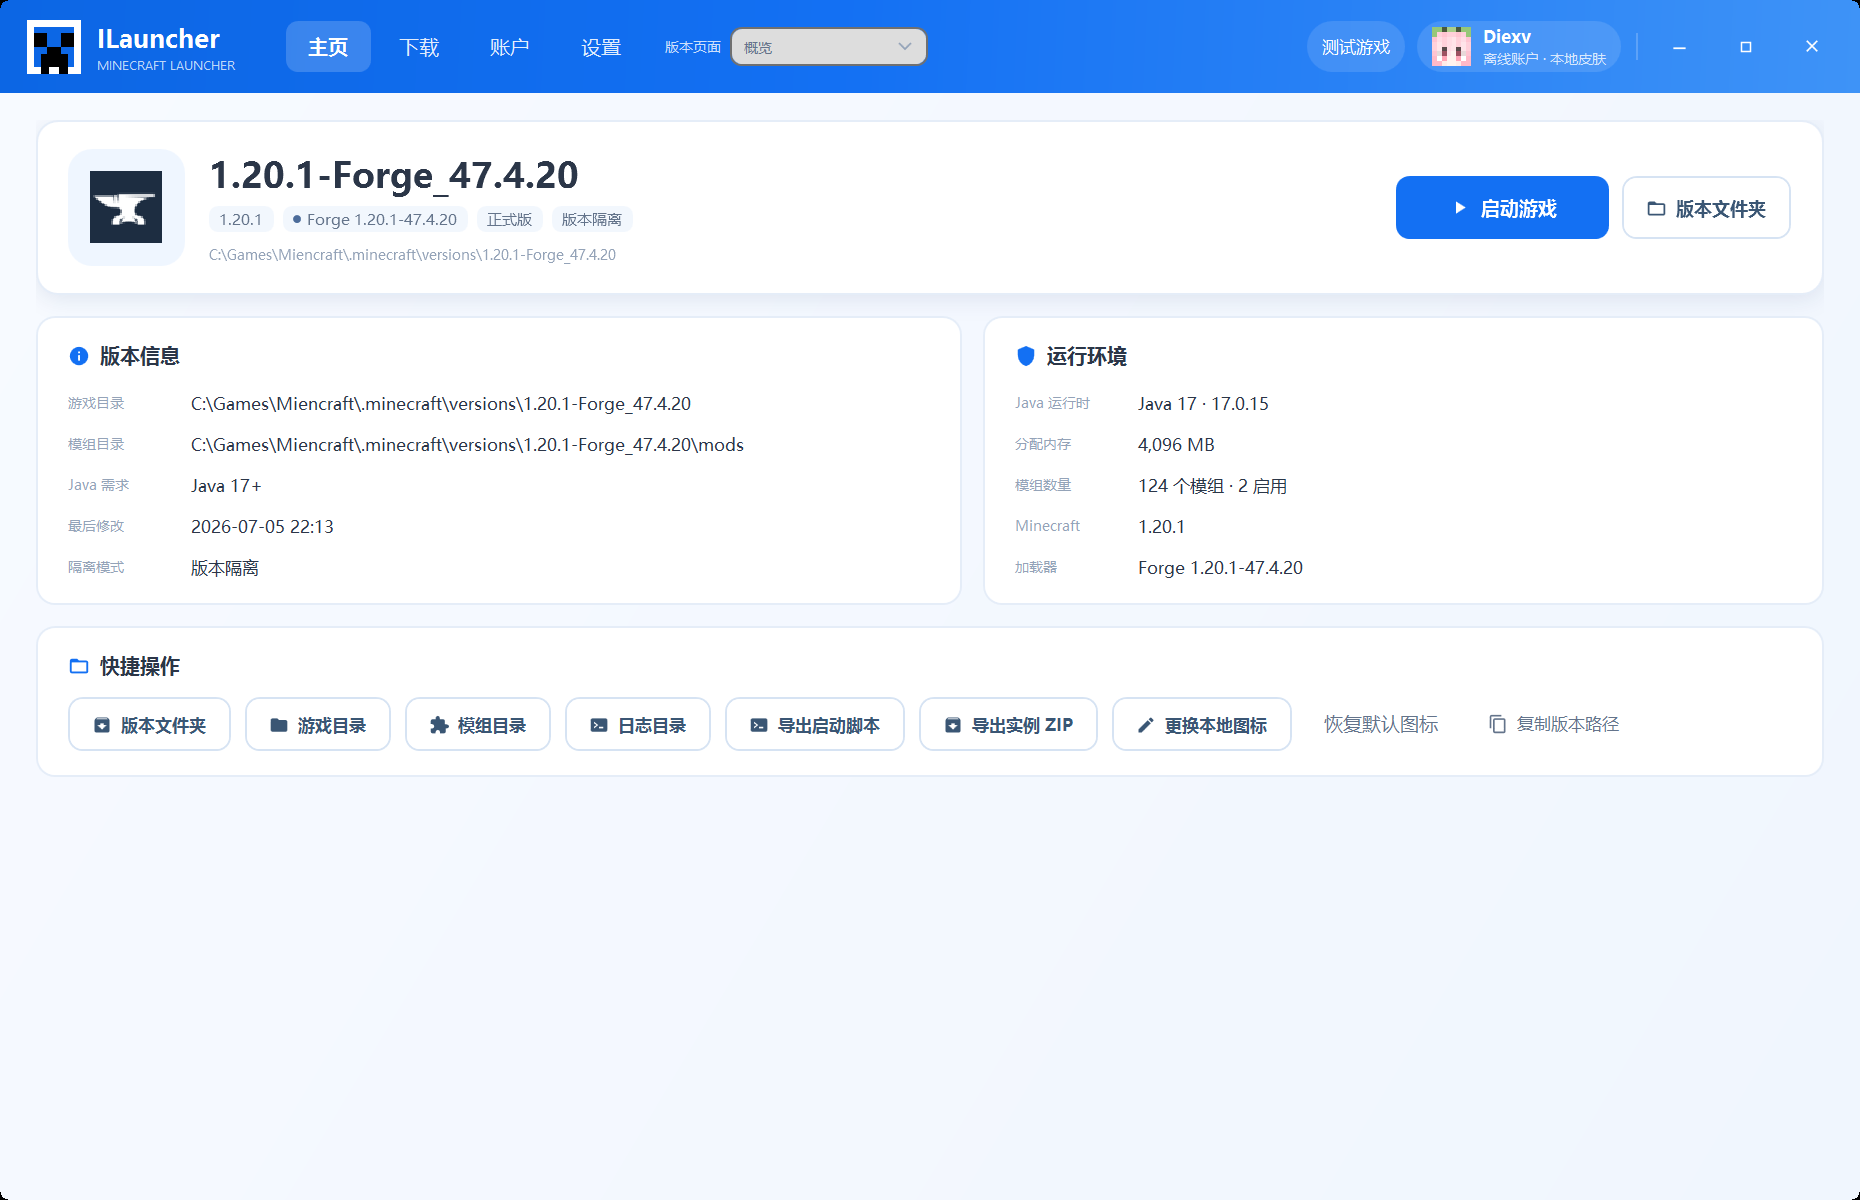
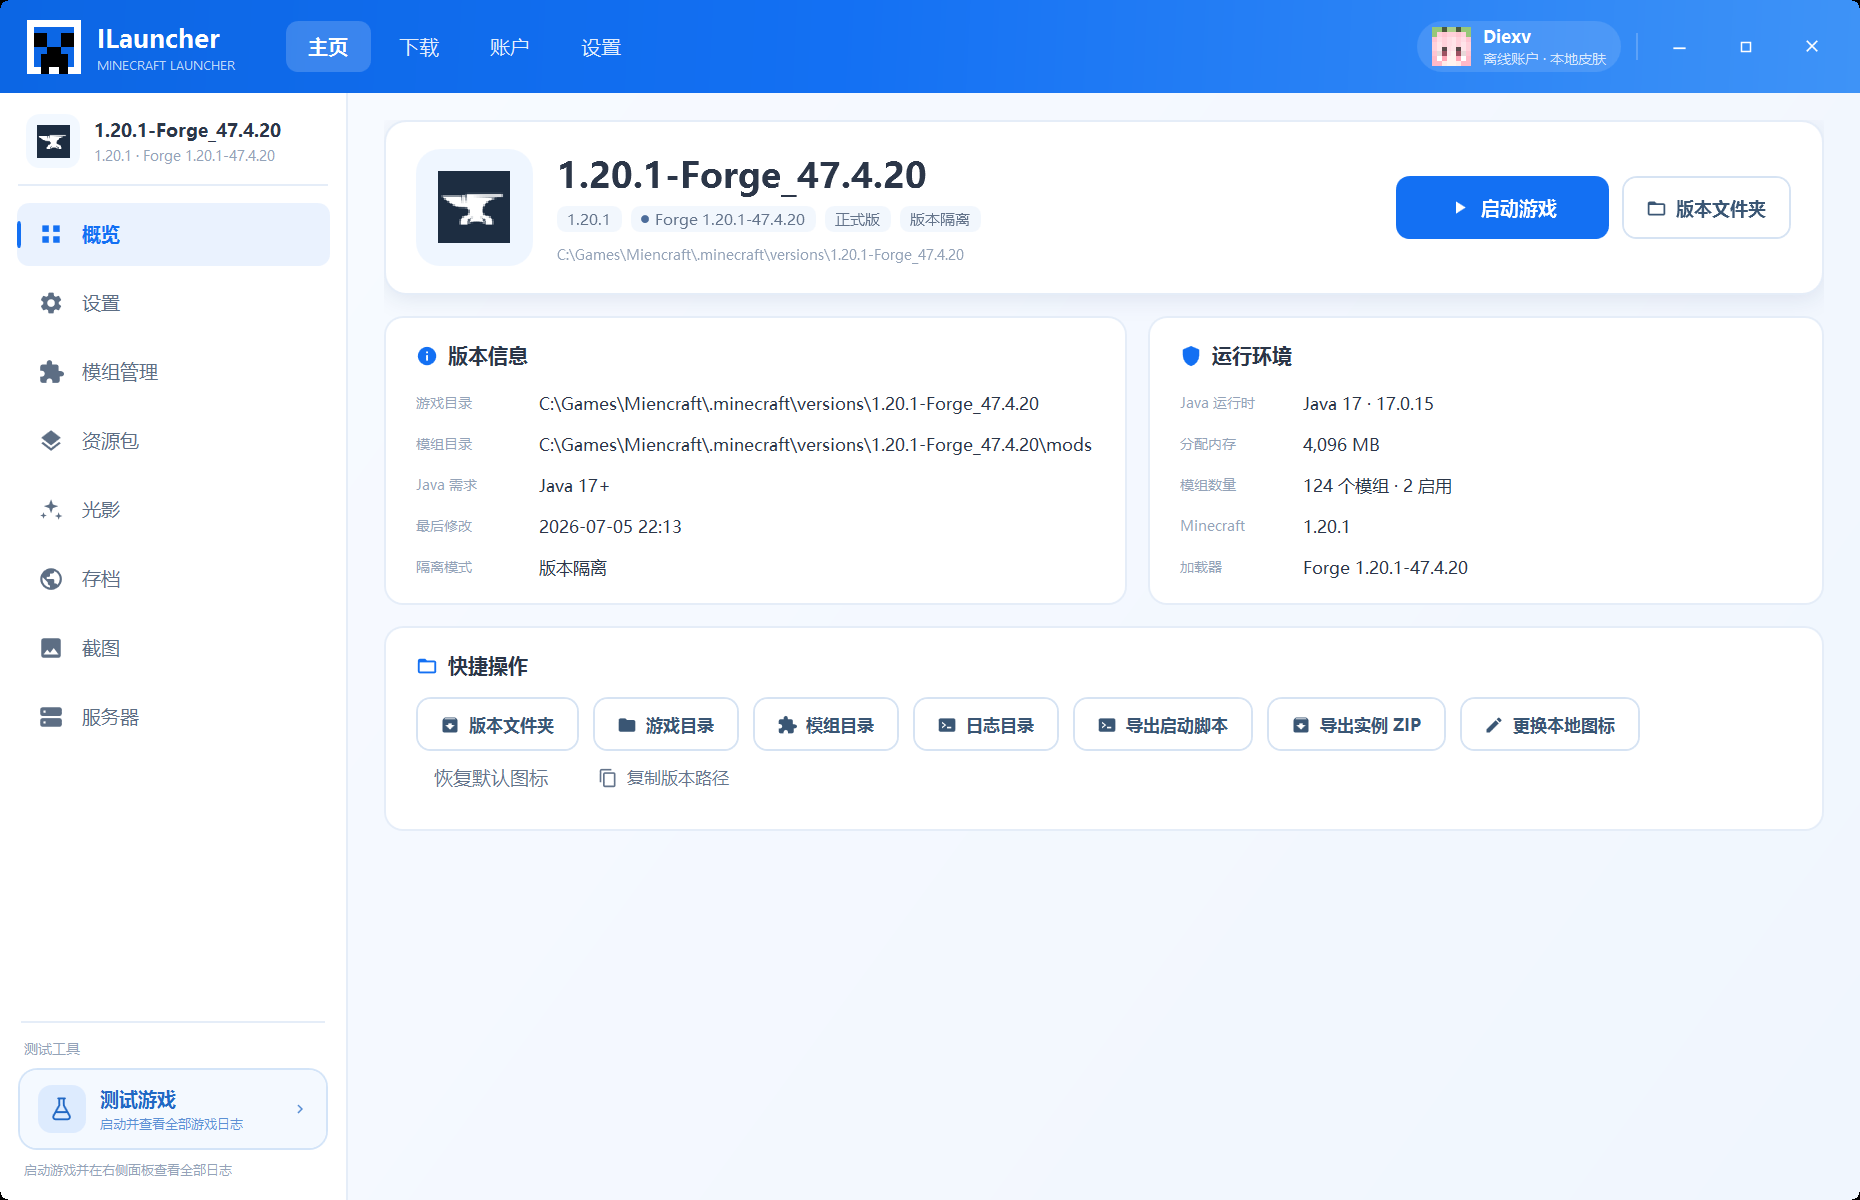
Restore version sidebar and test game button layout

diff --git a/src/ILauncher/Views/InstanceView.xaml b/src/ILauncher/Views/InstanceView.xaml
@@ -1,14 +1,138 @@
 <UserControl x:Class="ILauncher.Views.InstanceView"
              xmlns="http://schemas.microsoft.com/winfx/2006/xaml/presentation"
-             xmlns:x="http://schemas.microsoft.com/winfx/2006/xaml">
+             xmlns:x="http://schemas.microsoft.com/winfx/2006/xaml"
+             xmlns:controls="clr-namespace:ILauncher.Controls">
 
-    <Border>
-        <Border.Background>
-            <LinearGradientBrush StartPoint="0,0" EndPoint="1,1">
-                <GradientStop Color="#FFF7FAFF" Offset="0" />
-                <GradientStop Color="#FFF0F6FE" Offset="1" />
-            </LinearGradientBrush>
-        </Border.Background>
-        <ContentControl Content="{Binding CurrentModule}" />
-    </Border>
+    <UserControl.Resources>
+        <Style x:Key="TestGameButton" TargetType="Button">
+            <Setter Property="Cursor" Value="Hand" />
+            <Setter Property="Foreground" Value="#FF2168C4" />
+            <Setter Property="Background" Value="#FFF4F9FF" />
+            <Setter Property="BorderBrush" Value="#FFD3E4F8" />
+            <Setter Property="Template">
+                <Setter.Value>
+                    <ControlTemplate TargetType="Button">
+                        <Border x:Name="Bd" Background="{TemplateBinding Background}" BorderBrush="{TemplateBinding BorderBrush}"
+                                BorderThickness="1" CornerRadius="12" Padding="11,10">
+                            <ContentPresenter />
+                        </Border>
+                        <ControlTemplate.Triggers>
+                            <Trigger Property="IsMouseOver" Value="True">
+                                <Setter TargetName="Bd" Property="BorderBrush" Value="{StaticResource BrushAccent}" />
+                                <Setter TargetName="Bd" Property="Background" Value="#FFEFF7FF" />
+                            </Trigger>
+                            <Trigger Property="IsPressed" Value="True">
+                                <Setter TargetName="Bd" Property="Background" Value="#FFE4F0FF" />
+                            </Trigger>
+                        </ControlTemplate.Triggers>
+                    </ControlTemplate>
+                </Setter.Value>
+            </Setter>
+            <Style.Triggers>
+                <DataTrigger Binding="{Binding IsTestActive}" Value="True">
+                    <Setter Property="Foreground" Value="#FFFFFFFF" />
+                    <Setter Property="Background" Value="#FF1370F3" />
+                    <Setter Property="BorderBrush" Value="#FF1370F3" />
+                </DataTrigger>
+            </Style.Triggers>
+        </Style>
+    </UserControl.Resources>
+
+    <Grid>
+        <Grid.ColumnDefinitions>
+            <ColumnDefinition Width="232" />
+            <ColumnDefinition Width="*" />
+        </Grid.ColumnDefinitions>
+
+        <!-- ═══════════ Sidebar ═══════════ -->
+        <Border Background="#FFFFFFFF" BorderBrush="{StaticResource BrushBorder}" BorderThickness="0,0,1,0">
+            <Grid>
+                <Grid.RowDefinitions>
+                    <RowDefinition Height="Auto" />
+                    <RowDefinition Height="*" />
+                    <RowDefinition Height="Auto" />
+                </Grid.RowDefinitions>
+
+                <!-- Version identity -->
+                <Grid Grid.Row="0" Margin="16,14,14,12">
+                    <Grid.ColumnDefinitions>
+                        <ColumnDefinition Width="38" />
+                        <ColumnDefinition Width="*" />
+                    </Grid.ColumnDefinitions>
+                    <Border Width="36" Height="36" CornerRadius="9" Background="#FFF2F8FF">
+                        <Image Source="{Binding Instance, Converter={StaticResource InstanceIcon}}" Width="29" Height="29"
+                               RenderOptions.BitmapScalingMode="NearestNeighbor" />
+                    </Border>
+                    <StackPanel Grid.Column="1" Margin="9,0,0,0" VerticalAlignment="Center">
+                        <TextBlock Text="{Binding Instance.Id}" FontSize="12" FontWeight="SemiBold" TextTrimming="CharacterEllipsis"
+                                   ToolTip="{Binding Instance.Id}" />
+                        <TextBlock Text="{Binding Instance.Subtitle}" FontSize="9" Foreground="{StaticResource BrushTextMuted}"
+                                   TextTrimming="CharacterEllipsis" Margin="0,2,0,0" />
+                    </StackPanel>
+                </Grid>
+
+                <Border Grid.Row="0" Style="{StaticResource Divider}" VerticalAlignment="Bottom" Margin="12,0" />
+
+                <!-- Navigation -->
+                <ListBox Grid.Row="1" ItemsSource="{Binding NavItems}" SelectedItem="{Binding SelectedNav, Mode=TwoWay}"
+                         Style="{StaticResource SideNavList}" Margin="0,8,0,0">
+                    <ListBox.ItemTemplate>
+                        <DataTemplate>
+                            <StackPanel Orientation="Horizontal">
+                                <controls:Icon Data="{Binding IconData}" Width="17" Height="17"
+                                               Fill="{Binding Foreground, RelativeSource={RelativeSource AncestorType=ListBoxItem}}" />
+                                <TextBlock Text="{Binding Title}" FontSize="12.5" Margin="12,0,0,0" VerticalAlignment="Center"
+                                           Foreground="{Binding Foreground, RelativeSource={RelativeSource AncestorType=ListBoxItem}}" />
+                            </StackPanel>
+                        </DataTemplate>
+                    </ListBox.ItemTemplate>
+                </ListBox>
+
+                <!-- Independent test game button, pinned bottom-left -->
+                <StackPanel Grid.Row="2" Margin="0,0,0,14">
+                    <Border Style="{StaticResource Divider}" Margin="14,6,14,10" />
+                    <TextBlock Text="测试工具" FontSize="9.5" Foreground="{StaticResource BrushTextMuted}" Margin="16,0,0,7" />
+                    <Button Style="{StaticResource TestGameButton}" Margin="12,0" Command="{Binding TestGameCommand}" AutomationProperties.Name="测试游戏">
+                        <Grid>
+                            <Grid.ColumnDefinitions>
+                                <ColumnDefinition Width="34" />
+                                <ColumnDefinition Width="*" />
+                                <ColumnDefinition Width="12" />
+                            </Grid.ColumnDefinitions>
+                            <Border Width="32" Height="32" CornerRadius="9" Background="#1A1370F3">
+                                <controls:Icon Data="{StaticResource IconFlask}" Fill="Transparent"
+                                               Stroke="{Binding Foreground, RelativeSource={RelativeSource AncestorType=Button}}"
+                                               StrokeThickness="1.7" Width="18" Height="18" />
+                            </Border>
+                            <StackPanel Grid.Column="1" Margin="9,0,4,0" VerticalAlignment="Center">
+                                <TextBlock Text="测试游戏" FontSize="12.5" FontWeight="SemiBold"
+                                           Foreground="{Binding Foreground, RelativeSource={RelativeSource AncestorType=Button}}" />
+                                <TextBlock Text="{Binding TestButtonHint}" FontSize="8.8" Opacity="0.72"
+                                           Foreground="{Binding Foreground, RelativeSource={RelativeSource AncestorType=Button}}"
+                                           TextTrimming="CharacterEllipsis" Margin="0,2,0,0" />
+                            </StackPanel>
+                            <controls:Icon Grid.Column="2" Data="{StaticResource IconChevronRight}" Width="12" Height="12"
+                                           Fill="{Binding Foreground, RelativeSource={RelativeSource AncestorType=Button}}"
+                                           Opacity="0.75" VerticalAlignment="Center" />
+                        </Grid>
+                    </Button>
+                    <TextBlock Text="启动游戏并在右侧面板查看全部日志" FontSize="8.8" Foreground="{StaticResource BrushTextMuted}"
+                               Margin="16,7,10,0" TextWrapping="Wrap" />
+                </StackPanel>
+            </Grid>
+        </Border>
+
+        <!-- ═══════════ Content ═══════════ -->
+        <Border Grid.Column="1">
+            <Border.Background>
+                <LinearGradientBrush StartPoint="0,0" EndPoint="1,1">
+                    <GradientStop Color="#FFF7FAFF" Offset="0" />
+                    <GradientStop Color="#FFF0F6FE" Offset="1" />
+                </LinearGradientBrush>
+            </Border.Background>
+            <ContentControl Content="{Binding CurrentModule}" />
+        </Border>
+    </Grid>
 </UserControl>
+
+

diff --git a/src/ILauncher/MainWindow.xaml b/src/ILauncher/MainWindow.xaml
@@ -58,25 +58,10 @@
                             Command="{Binding GoAccountCommand}" Margin="4,0,0,0" AutomationProperties.Name="账户" />
                     <Button Style="{StaticResource HeaderTabButton}" Content="设置" Tag="{Binding IsSettingsPage}"
                             Command="{Binding GoSettingsCommand}" Margin="4,0,0,0" AutomationProperties.Name="设置" />
-                    <TextBlock Text="版本页面" FontSize="9" Foreground="#BFFFFFFF" VerticalAlignment="Center"
-                               Margin="14,0,6,0"
-                               Visibility="{Binding IsInstancePage, Converter={StaticResource BoolToVisibility}}" />
-                    <ComboBox Style="{StaticResource FilterCombo}" Width="132" Height="26" VerticalAlignment="Center"
-                              ItemsSource="{Binding CurrentPage.NavItems}"
-                              SelectedItem="{Binding CurrentPage.SelectedNav, Mode=TwoWay}"
-                              ToolTip="{Binding CurrentPage.Instance.Id}"
-                              AutomationProperties.Name="版本页面"
-                              Visibility="{Binding IsInstancePage, Converter={StaticResource BoolToVisibility}}" />
                 </StackPanel>
 
                 <!-- Right actions -->
                 <StackPanel Grid.Column="2" Orientation="Horizontal" VerticalAlignment="Center">
-                    <Button Style="{StaticResource HeaderChipButton}" Command="{Binding CurrentPage.TestGameCommand}"
-                            Visibility="{Binding IsInstancePage, Converter={StaticResource BoolToVisibility}}"
-                            ToolTip="测试游戏并查看日志" Margin="0,0,8,0">
-                        <TextBlock Text="测试游戏" FontSize="11.5" Foreground="#FFFFFFFF" />
-                    </Button>
-
                     <Button Style="{StaticResource HeaderChipButton}" Command="{Binding OpenGameLogCommand}"
                             Visibility="{Binding ShowGameChip, Converter={StaticResource BoolToVisibility}}"
                             ToolTip="查看运行中的游戏日志" Margin="0,0,8,0">

diff --git a/README.md b/README.md
@@ -88,14 +88,15 @@ $env:MS_CLIENT_ID = "你的 Azure Application (client) ID"
 - 导入 `.mrpack` 时自动读取根目录 `icon.png`、`pack.png`，以及 `overrides/`、`client-overrides/` 中的 `icon.png`，复制为对应版本的本地图标。
 - 主页版本列表支持按 **加载器（原版/Forge/Fabric/NeoForge/Quilt/OptiFine）**、**正式版/快照/旧版** 和版本名筛选；加载器和类型使用下拉菜单，筛选控件固定在同一行标题栏中，不会改变列表布局。数量会显示为“筛选结果 / 总数”。
 - 版本列表布局只能手动切换：**列表 · 1 个/行**、**2 个/行**、**3 个/行**、**4 个/行**，选择会保存到设置，不会根据版本数量自动变化。
-- 版本卡片、主页大卡、版本页顶部、概览都会使用本地图标；未设置时按加载器自动使用 **Fabric / Quilt / Forge / NeoForge / OptiFine** 官方徽标，原版使用方块图标。徽标来源见 `Assets/Loaders/README.md`。
+- 版本卡片、主页大卡、版本页侧栏、概览都会使用本地图标；未设置时按加载器自动使用 **Fabric / Quilt / Forge / NeoForge / OptiFine** 官方徽标，原版使用方块图标。徽标来源见 `Assets/Loaders/README.md`。
 - 模组图标从 jar 内部读取（Fabric/Quilt/Forge/NeoForge 元数据），资源包读取 `pack.png`，存档读取 `icon.png`。
 
 ### 顶部导航
 
 - 顶部固定显示 **主页 / 下载 / 账户 / 设置**；切换根界面不再依赖返回按钮，也不会在子页隐藏导航。
 - 下载页使用四个大按钮切换 **游戏版本 / 模组 / 资源包 / 光影**，按钮位于页面标题下方，不再使用小标签或右上角下拉。
-- 版本页取消左侧导航栏；**概览 / 设置 / 模组管理 / 资源包 / 光影 / 存档 / 截图 / 服务器** 统一放在顶部“版本页面”下拉中切换，测试游戏入口也在顶栏。
+- 版本页保留原有左侧导航栏；**概览 / 设置 / 模组管理 / 资源包 / 光影 / 存档 / 截图 / 服务器** 仍在侧栏切换，模组列表、资源包、存档等功能保持原布局。
+- 顶部只负责根界面（主页/下载/账户/设置）切换；版本页的“测试游戏”按钮仍在左侧栏左下角。
 
 ### 下载中心
 
@@ -140,7 +141,7 @@ $env:MS_CLIENT_ID = "你的 Azure Application (client) ID"
 
 ### 独立「测试游戏」按钮（HMCL 式）
 
-按钮固定在启动器顶部导航栏右侧，进入版本页后显示；概览/设置/模组管理等功能通过顶部的**版本页面**下拉切换，不再使用左侧导航栏。点击后：
+按钮固定在版本设置左侧栏左下角，位于导航列表下方的「测试工具」区域；不在导航列表中，也不会改变根界面的顶部导航。点击后：
 
 1. 右侧内容切换到「测试游戏 · 启动日志」；
 2. 按当前版本配置启动 Java 进程；
@@ -182,7 +183,7 @@ $env:MS_CLIENT_ID = "你的 Azure Application (client) ID"
 - `Plain Craft Launcher 2/Pages/PageInstance/PageInstanceLeft.xaml`：版本设置左侧导航，使用 `MyListItem` 单选列表。
 - `Plain Craft Launcher 2/Controls/MyListItem.xaml`：导航项图标、标题、选中态。
 - `Plain Craft Launcher 2/Application.xaml`：主题色（`#343D4A` 文本、`#1370F3` 主色、`#FBFBFB` 背景）与字体。
-- PCL2 的版本管理页也有「测试游戏」入口（概览 → 管理），本项目按需求把它移动到启动器顶栏并做成独立按钮。
+- PCL2 的版本管理页也有「测试游戏」入口（概览 → 管理），本项目按需求把它放在版本设置左侧栏左下角并做成独立按钮。
 
 ### HMCL
 
@@ -279,6 +280,8 @@ docs/screenshots/            README 截图
 - 模组安装不会自动解析并安装前置依赖；只安装主文件。
 - Forge/NeoForge 走官方安装器，不保证所有版本都能在无界面模式下成功。
 - 启动器自身更新、主题/语言切换等非 Minecraft 功能未实现。
+
+
 
 
 
